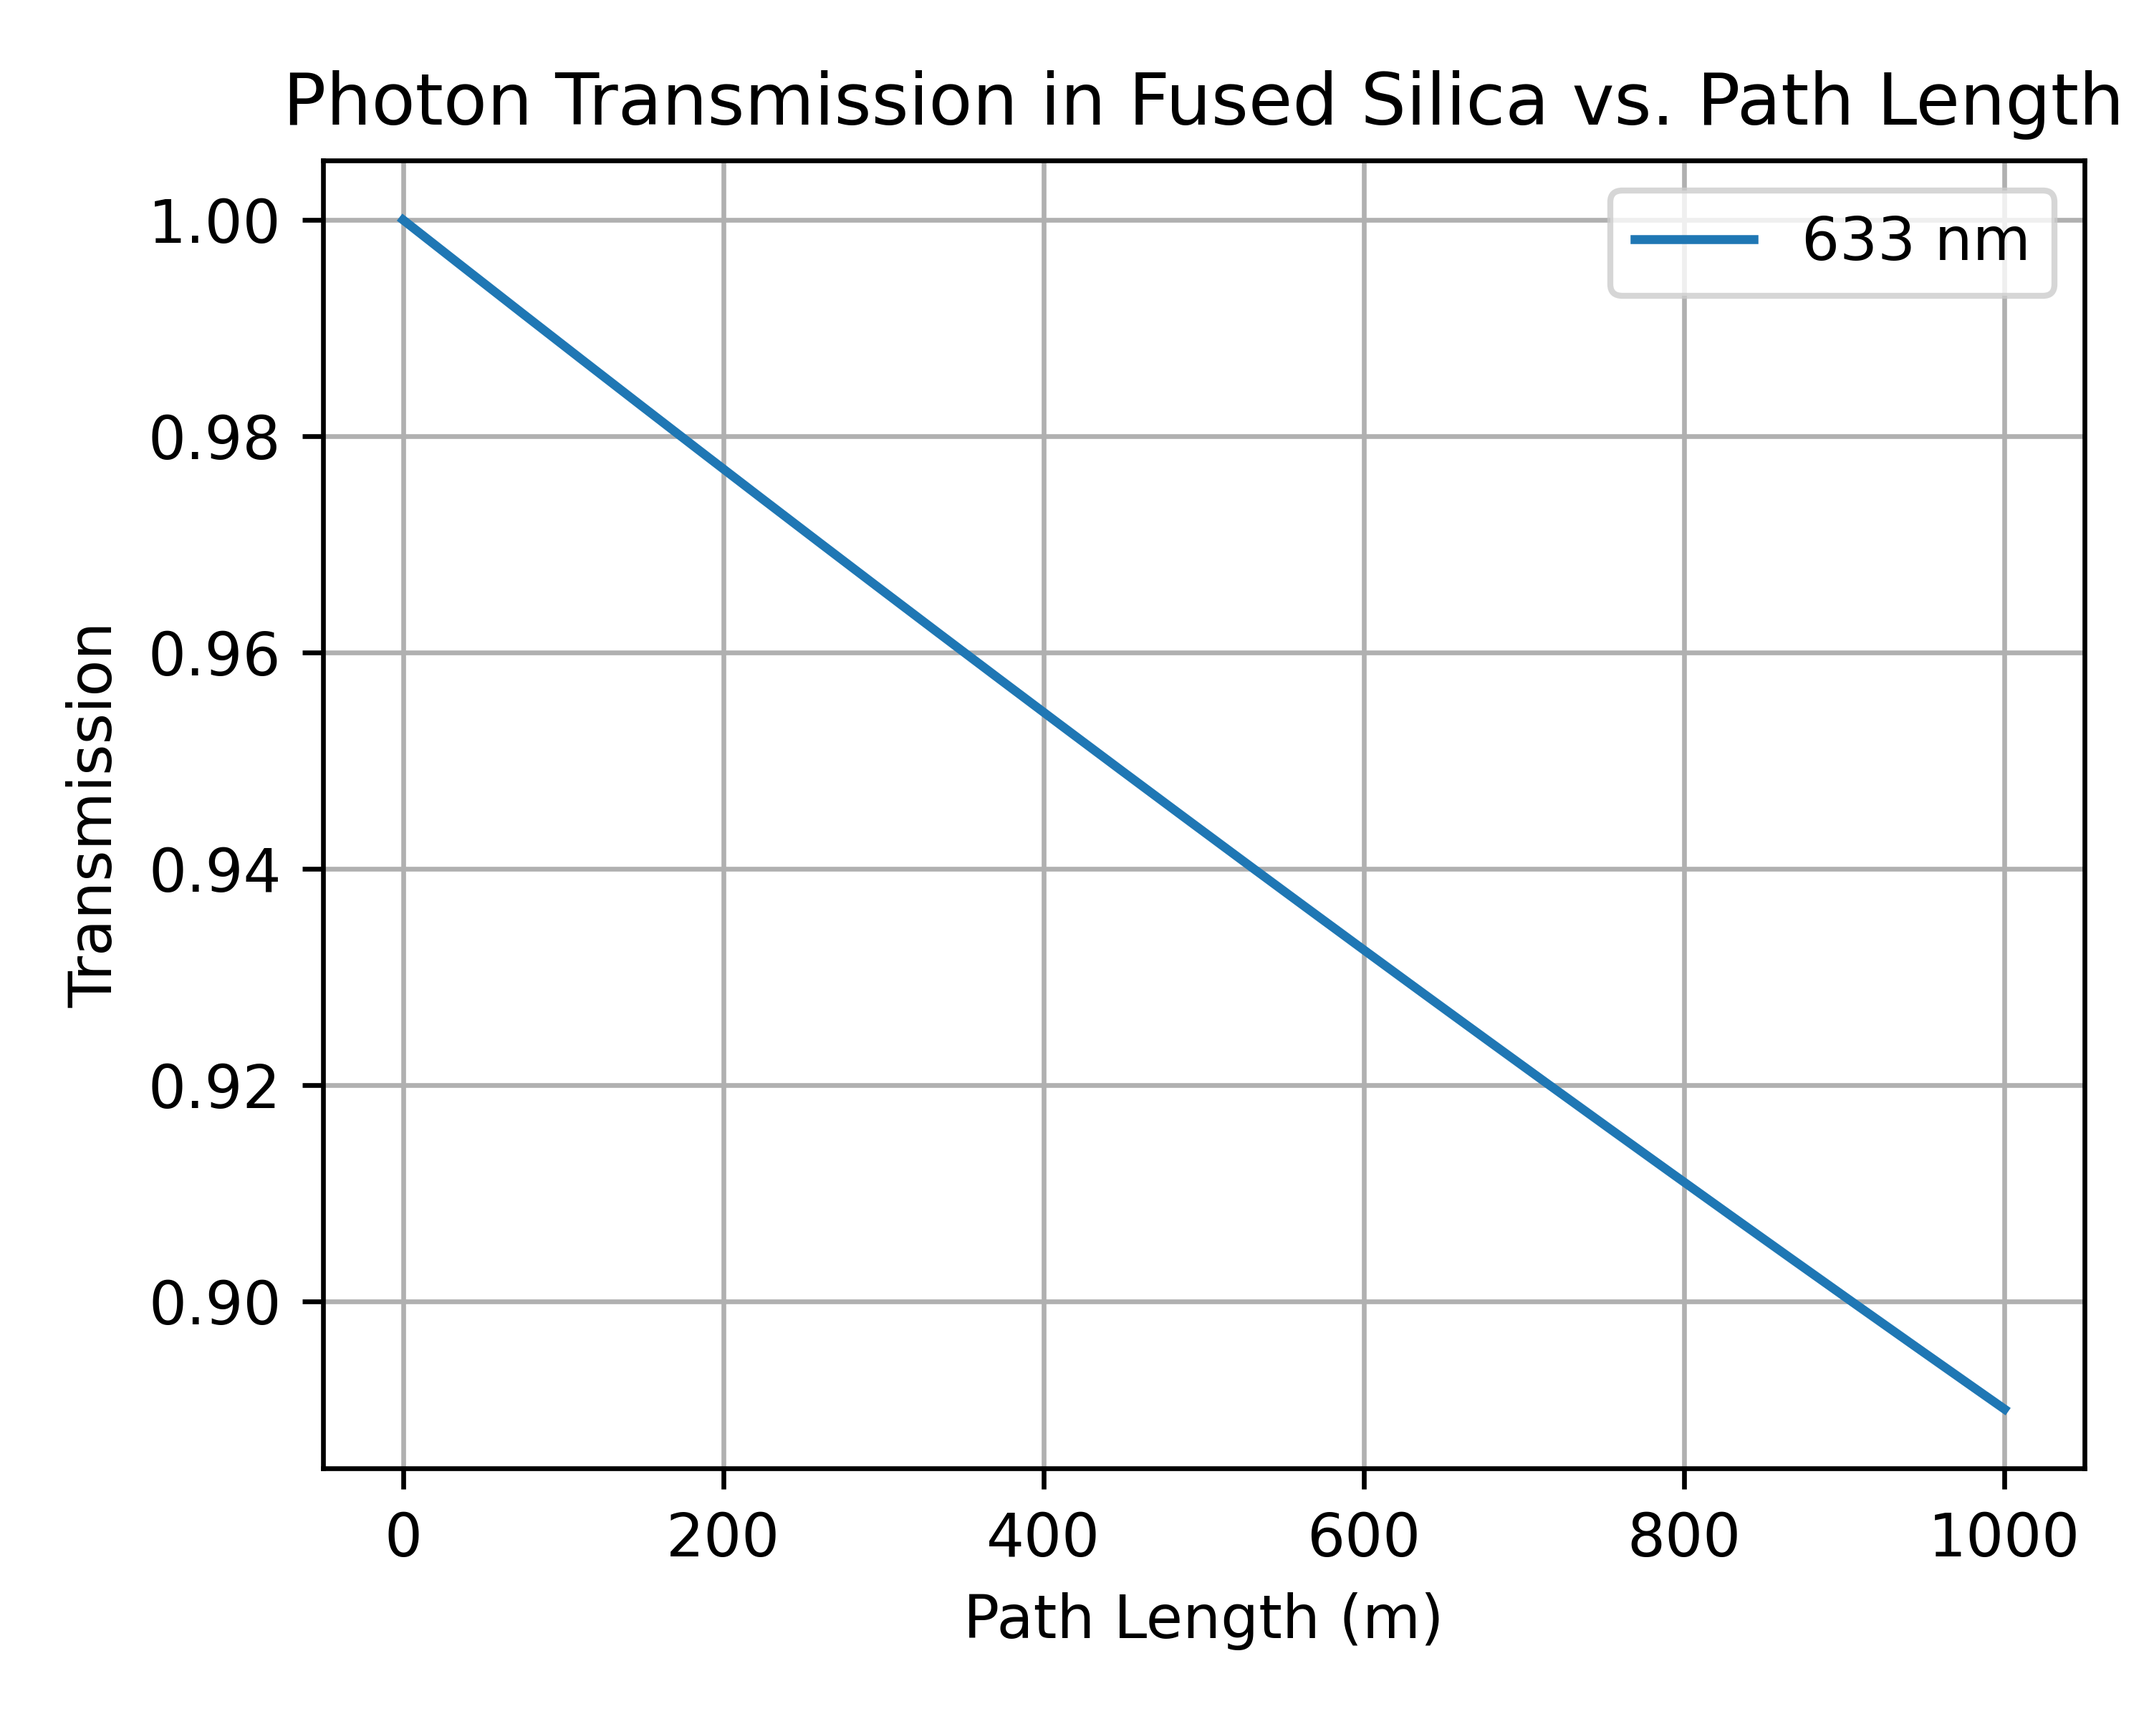
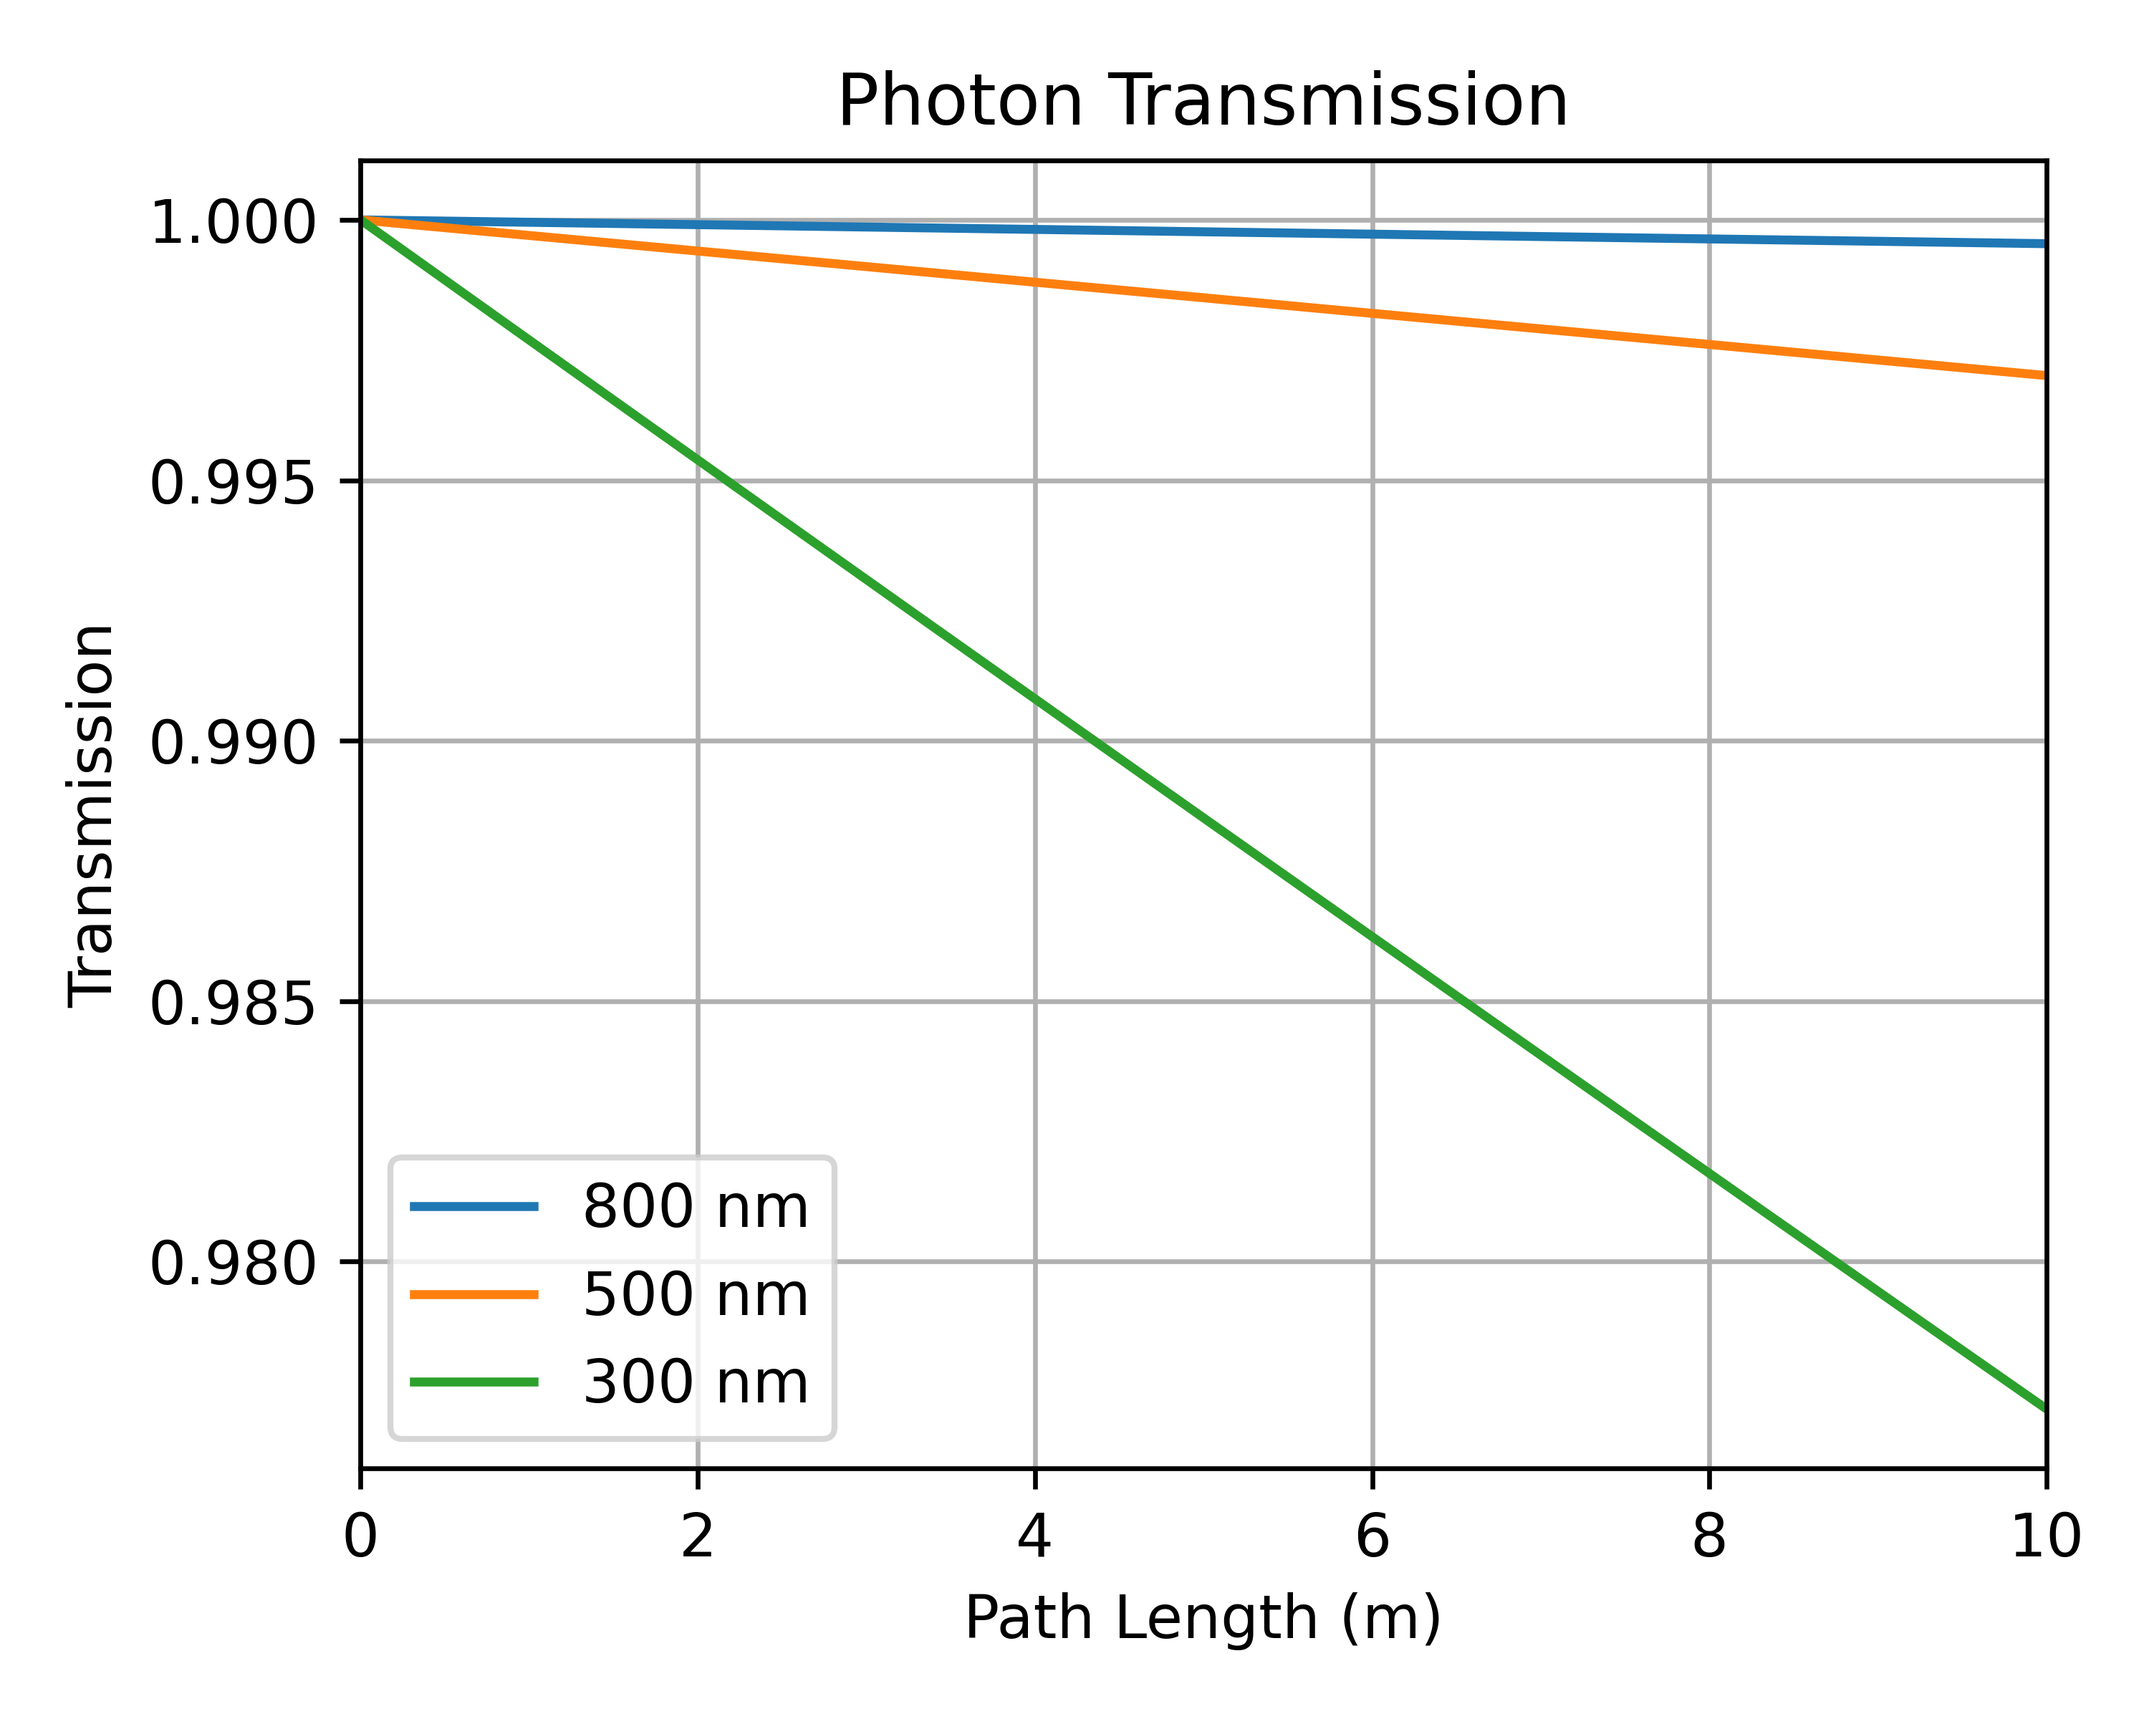
Adding more wavelengths to Rayleigh scattering

diff --git a/bulk_scattering.py b/bulk_scattering.py
@@ -2,12 +2,16 @@ import numpy as np
 import matplotlib.pyplot as plt
 
 # Constants
-wavelength = 633e-9  # 633 nm in meters
-n = 1.46             # Refractive index of fused silica
-p = 0.22             # Photoelastic coefficient (unitless)
-k_B = 1.380649e-23   # Boltzmann constant (J/K)
-T_kelvin = 300       # Temperature in Kelvin
-beta_T = 7e-11       # Isothermal compressibility (Pa^-1)
+wavelength1 = 800e-9  # 800 nm in meters
+wavelength2 = 500e-9  # 633 nm in meters
+wavelength3 = 300e-9  # 300 nm in meters
+
+n = 1.46  # Refractive index of fused silica
+p = 0.22  # Photoelastic coefficient (unitless)
+k_B = 1.380649e-23  # Boltzmann constant (J/K)
+T_kelvin = 300  # Temperature in Kelvin
+beta_T = 7e-11  # Isothermal compressibility (Pa^-1)
+
 
 # Rayleigh scattering coefficient (alpha_sc in 1/m)
 def compute_alpha_sc(wavelength, n, p, T_kelvin, beta_T):
@@ -15,18 +19,26 @@ def compute_alpha_sc(wavelength, n, p, T_kelvin, beta_T):
     term2 = n**8 * p**2 * k_B * T_kelvin * beta_T / (n**2 - 1)**2
     return term1 * term2
 
-alpha_sc = compute_alpha_sc(wavelength, n, p, T_kelvin, beta_T)
+
+alpha_sc1 = compute_alpha_sc(wavelength1, n, p, T_kelvin, beta_T)
+alpha_sc2 = compute_alpha_sc(wavelength2, n, p, T_kelvin, beta_T)
+alpha_sc3 = compute_alpha_sc(wavelength3, n, p, T_kelvin, beta_T)
 
 # Path lengths in meters
-L = np.linspace(0, 1000, 1000)  # From 0 to 10 meters
-transmission = np.exp(-alpha_sc * L)
+L = np.linspace(0, 10, 1000)  # From 0 to 10 meters
+transmission1 = np.exp(-alpha_sc1 * L)
+transmission2 = np.exp(-alpha_sc2 * L)
+transmission3 = np.exp(-alpha_sc3 * L)
 
 # Plot
 plt.figure(figsize=(5, 4))
-plt.plot(L, transmission, label=f'{wavelength*1e9:.0f} nm')
+plt.plot(L, transmission1, label=f'{wavelength1*1e9:.0f} nm')
+plt.plot(L, transmission2, label=f'{wavelength2*1e9:.0f} nm')
+plt.plot(L, transmission3, label=f'{wavelength3*1e9:.0f} nm')
+plt.xlim(L[0], L[-1])
 plt.xlabel('Path Length (m)')
 plt.ylabel('Transmission')
-plt.title('Photon Transmission in Fused Silica vs. Path Length')
+plt.title('Photon Transmission')
 plt.grid(True)
 plt.legend()
 plt.tight_layout()

diff --git a/main.py b/main.py
@@ -3,7 +3,7 @@
 #import timeres
 #import wavelength
 #import rindex
-#import bulk_scattering
-import roughness
+import bulk_scattering
+#import roughness
 
 print('finished...')
